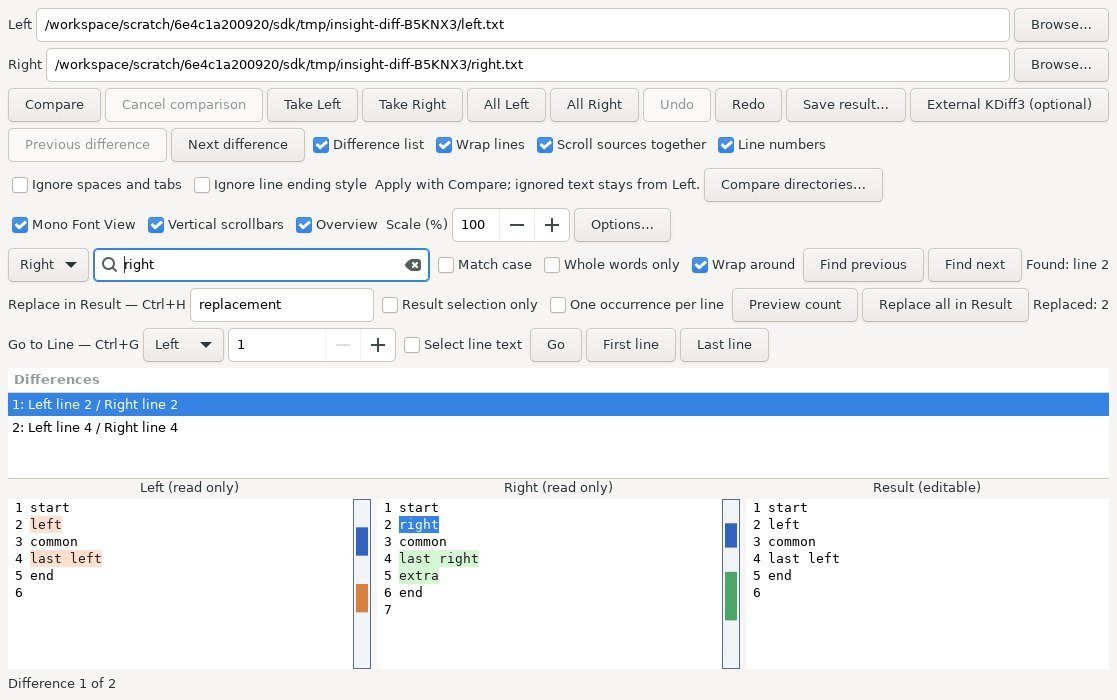
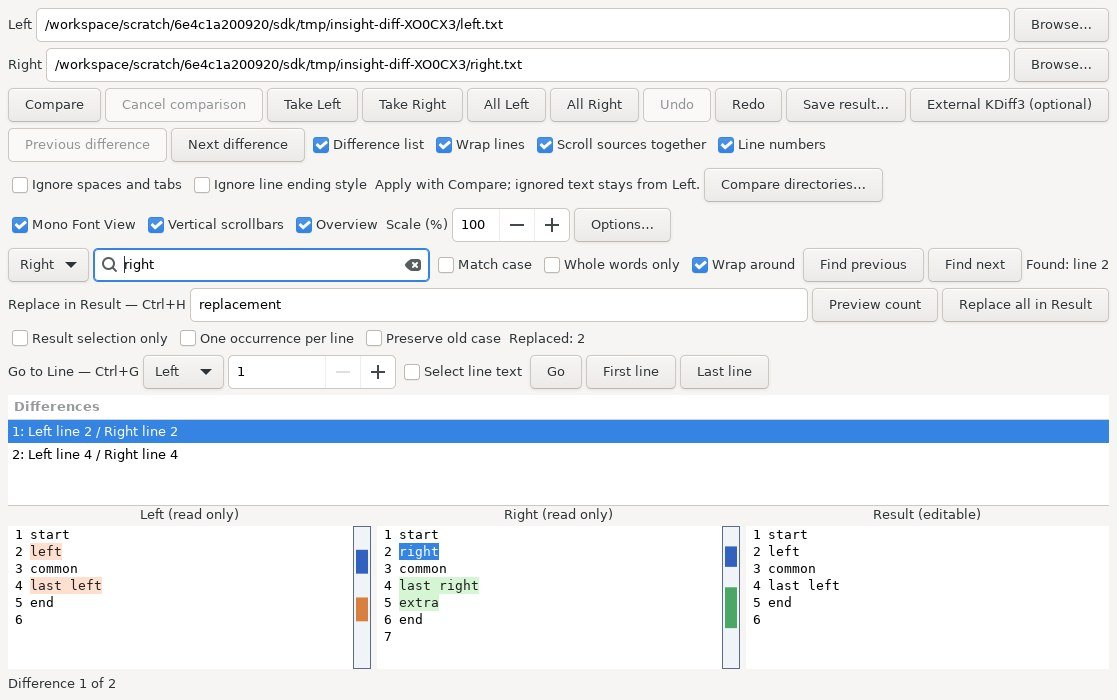
Preserve Unicode match case in replacement and add result selection case commands

diff --git a/src/insight-diff.c b/src/insight-diff.c
@@ -15,7 +15,7 @@ typedef struct { guint begin,end; } MapBlock;
 typedef struct {
  GtkWidget *window,*paths[2],*views[3],*status,*undo,*redo,*take[2],*take_all[2],*external;
  GtkWidget *find_entry,*find_side,*find_case,*find_word,*find_wrap,*find_previous,*find_next,*find_status,*numbers;
- GtkWidget *replace_entry,*replace_selection,*replace_once,*replace_status,*replace_apply;
+ GtkWidget *replace_entry,*replace_selection,*replace_once,*replace_case,*replace_status,*replace_apply;
  GtkWidget *line_side,*line_number,*line_select,*line_status;
  GArray *map_blocks[2];guint map_lines[2];
  GtkWidget *scrollers[3],*maps[2],*zoom,*mono,*vertical,*overview,*list_toggle,*wrap_toggle;GtkCssProvider *font_css;
@@ -217,7 +217,47 @@ static void find_text(Merge *m,gboolean backwards) {
 }
 static void find_clicked(GtkWidget *w,gpointer data) { Merge *m=data;find_text(m,w==m->find_previous); }
 static void find_activate(GtkEntry *entry,gpointer data) { (void)entry;find_text(data,FALSE); }
-typedef struct { gint begin,end; } ReplaceRange;
+/* Recognize uniform and initial-capital case; mixed identifiers stay literal. */
+static gchar *preserve_case(const gchar *old,const gchar *replacement) {
+ guint upper=0,lower=0,cased=0;gboolean initial=TRUE;
+ for(const gchar *p=old;*p;p=g_utf8_next_char(p)) {
+  gunichar c=g_utf8_get_char(p);gboolean up=g_unichar_isupper(c)||g_unichar_istitle(c),down=g_unichar_islower(c);
+  if(up || down) { if((cased==0 && !up) || (cased>0 && !down)) initial=FALSE;cased++;upper+=up;lower+=down; }
+ }
+ if(upper && !lower) return g_utf8_strup(replacement,-1);
+ if(lower && !upper) return g_utf8_strdown(replacement,-1);
+ if(initial && cased) {
+  gchar *low=g_utf8_strdown(replacement,-1);
+  for(gchar *p=low;*p;p=g_utf8_next_char(p)) if(g_unichar_islower(g_utf8_get_char(p)) || g_unichar_isupper(g_utf8_get_char(p))) {
+   gchar *next=g_utf8_next_char(p),*up=g_utf8_strup(p,next-p),*prefix=g_strndup(low,p-low),*text=g_strconcat(prefix,up,next,NULL);g_free(up);g_free(prefix);g_free(low);return text;
+  }
+  return low;
+ }
+ return g_strdup(replacement);
+}
+static gchar *toggle_case(const gchar *text) {
+ GString *out=g_string_new(NULL);
+ for(const gchar *p=text;*p;) { const gchar *next=g_utf8_next_char(p);gunichar c=g_utf8_get_char(p);
+  gchar *part=(g_unichar_isupper(c)||g_unichar_istitle(c)) ? g_utf8_strdown(p,next-p) : g_utf8_strup(p,next-p);g_string_append(out,part);g_free(part);p=next;
+ }
+ return g_string_free(out,FALSE);
+}
+static void selection_case(Merge *m,guint action) {
+ if(m->busy || m->changing) return;
+ GtkTextBuffer *buffer=result(m);GtkTextIter a,z;
+ if(!gtk_text_buffer_get_selection_bounds(buffer,&a,&z)) return;
+ gchar *old=gtk_text_buffer_get_text(buffer,&a,&z,TRUE);
+ gchar *text=action==0 ? g_utf8_strup(old,-1) : action==1 ? g_utf8_strdown(old,-1) : toggle_case(old);
+ gchar *all=contents(buffer);guint64 bytes=strlen(all)-strlen(old)+strlen(text);g_free(all);
+ if(bytes>1024*1024) gtk_label_set_text(GTK_LABEL(m->replace_status),"Case conversion limit: 1 MiB result. Nothing changed.");
+ else if(strcmp(old,text)) {
+  gint begin=gtk_text_iter_get_offset(&a);gtk_text_buffer_begin_user_action(buffer);gtk_text_buffer_delete(buffer,&a,&z);gtk_text_buffer_insert(buffer,&a,text,-1);gtk_text_buffer_get_iter_at_offset(buffer,&z,begin);gtk_text_buffer_select_range(buffer,&z,&a);gtk_text_buffer_end_user_action(buffer);
+  gtk_label_set_text(GTK_LABEL(m->replace_status),"Selection case changed.");
+ }
+ g_free(text);g_free(old);
+}
+typedef struct { gint begin,end;gchar *text; } ReplaceRange;
+
 static void replace_result(GtkWidget *widget,gpointer data) {
  Merge *m=data;if(m->busy || m->changing) return;
  const gchar *query=gtk_entry_get_text(GTK_ENTRY(m->find_entry));
@@ -230,18 +270,20 @@ static void replace_result(GtkWidget *widget,gpointer data) {
  if(!gtk_toggle_button_get_active(GTK_TOGGLE_BUTTON(m->find_case))) flags|=GTK_TEXT_SEARCH_CASE_INSENSITIVE;
  gboolean whole=gtk_toggle_button_get_active(GTK_TOGGLE_BUTTON(m->find_word));
  gboolean once=gtk_toggle_button_get_active(GTK_TOGGLE_BUTTON(m->replace_once));
- const gchar *replacement=gtk_entry_get_text(GTK_ENTRY(m->replace_entry));gsize replacement_bytes=strlen(replacement);
+ const gchar *replacement=gtk_entry_get_text(GTK_ENTRY(m->replace_entry));
+ gboolean keep_case=gtk_toggle_button_get_active(GTK_TOGGLE_BUTTON(m->replace_case));
  gchar *original=contents(buffer);guint64 bytes=strlen(original);g_free(original);
  GArray *ranges=g_array_new(FALSE,FALSE,sizeof(ReplaceRange));gint last_line=-1;gboolean exceeded=FALSE;
  while(search_match(start,query,flags,FALSE,whole,&a,&z) && gtk_text_iter_compare(&z,&limit)<=0) {
   if(!once || gtk_text_iter_get_line(&a)!=last_line) {
    gchar *old=gtk_text_buffer_get_text(buffer,&a,&z,TRUE);gsize old_bytes=strlen(old);
    /* A no-op must not create history or consume the bounded match budget. */
-   gboolean same=!strcmp(old,replacement);g_free(old);
+   gchar *text=keep_case ? preserve_case(old,replacement) : g_strdup(replacement);gsize replacement_bytes=strlen(text);
+   gboolean same=!strcmp(old,text);g_free(old);
    last_line=gtk_text_iter_get_line(&a);
-   if(!same) { ReplaceRange range={gtk_text_iter_get_offset(&a),gtk_text_iter_get_offset(&z)};g_array_append_val(ranges,range);bytes=bytes-old_bytes+replacement_bytes;
+   if(!same) { ReplaceRange range={gtk_text_iter_get_offset(&a),gtk_text_iter_get_offset(&z),text};g_array_append_val(ranges,range);bytes=bytes-old_bytes+replacement_bytes;
     if(ranges->len>100000 || bytes>1024*1024) { exceeded=TRUE;break; }
-   }
+   } else g_free(text);
   }
   start=z;
  }
@@ -250,10 +292,11 @@ static void replace_result(GtkWidget *widget,gpointer data) {
  else if(ranges->len) {
   gtk_text_buffer_begin_user_action(buffer);
   /* Reverse edits preserve offsets and tracked merge marks. */
-  for(guint i=ranges->len;i>0;i--) { ReplaceRange range=g_array_index(ranges,ReplaceRange,i-1);gtk_text_buffer_get_iter_at_offset(buffer,&a,range.begin);gtk_text_buffer_get_iter_at_offset(buffer,&z,range.end);gtk_text_buffer_delete(buffer,&a,&z);gtk_text_buffer_insert(buffer,&a,replacement,(gint)replacement_bytes); }
+  for(guint i=ranges->len;i>0;i--) { ReplaceRange range=g_array_index(ranges,ReplaceRange,i-1);gtk_text_buffer_get_iter_at_offset(buffer,&a,range.begin);gtk_text_buffer_get_iter_at_offset(buffer,&z,range.end);gtk_text_buffer_delete(buffer,&a,&z);gtk_text_buffer_insert(buffer,&a,range.text,-1); }
   gtk_text_buffer_end_user_action(buffer);
   gchar *label=g_strdup_printf("Replaced: %u",ranges->len);gtk_label_set_text(GTK_LABEL(m->replace_status),label);g_free(label);
  } else gtk_label_set_text(GTK_LABEL(m->replace_status),"No changes.");
+ for(guint i=0;i<ranges->len;i++) g_free(g_array_index(ranges,ReplaceRange,i).text);
  g_array_unref(ranges);
 }
 static void gutter_size(GtkTextBuffer *buffer,gpointer data) {
@@ -478,16 +521,17 @@ static void copy_difference(Merge *m,guint side) {
 static void source_menu_action(GtkMenuItem *item,gpointer window) {
  Merge *m=g_object_get_data(G_OBJECT(window),"insight-diff-state");if(!m) return;
  gint side=GPOINTER_TO_INT(g_object_get_data(G_OBJECT(item),"side"));gint action=GPOINTER_TO_INT(g_object_get_data(G_OBJECT(item),"action"));
- if(action==0) edit_source(m,side);else if(action==1) copy_difference(m,side);else if(action==2) view_options(GTK_WIDGET(item),m);else focus_line(m,side);
+ if(action==0) edit_source(m,side);else if(action==1) copy_difference(m,side);else if(action==2) view_options(GTK_WIDGET(item),m);else if(action==3) focus_line(m,side);else if(side==2) selection_case(m,action-4);
 }
 static void view_menu_toggle(GtkCheckMenuItem *item,gpointer toggle) { gtk_toggle_button_set_active(GTK_TOGGLE_BUTTON(toggle),gtk_check_menu_item_get_active(item)); }
 static void source_menu(GtkTextView *view,GtkWidget *menu,gpointer data) {
  Merge *m=data;guint side=GTK_WIDGET(view)==m->views[1] ? 1 : GTK_WIDGET(view)==m->views[0] ? 0 : 2;
  gtk_menu_shell_append(GTK_MENU_SHELL(menu),gtk_separator_menu_item_new());
- const gchar *labels[]={"Edit File — Ctrl+E","Copy selected difference","File Compare Options…","Go to Line — Ctrl+G"};
- for(guint action=0;action<4;action++) {
-  if(side==2 && action<2) continue;
+ const gchar *labels[]={"Edit File — Ctrl+E","Copy selected difference","File Compare Options…","Go to Line — Ctrl+G","Uppercase selection","Lowercase selection","Toggle selection case"};
+ for(guint action=0;action<G_N_ELEMENTS(labels);action++) {
+  if((side==2 && action<2) || (side!=2 && action>=4)) continue;
   GtkWidget *item=gtk_menu_item_new_with_label(labels[action]);g_object_set_data(G_OBJECT(item),"side",GUINT_TO_POINTER(side));g_object_set_data(G_OBJECT(item),"action",GUINT_TO_POINTER(action));gtk_menu_shell_append(GTK_MENU_SHELL(menu),item);g_signal_connect_object(item,"activate",G_CALLBACK(source_menu_action),m->window,0);
+  if(action>=4) gtk_widget_set_sensitive(item,!m->busy && gtk_text_buffer_get_has_selection(result(m)));
   if(action<2) gtk_widget_set_sensitive(item,!m->busy && m->loaded_paths[side] && (action==0 ? source_opener!=NULL : selected(m)>=0));
  }
  GtkWidget *toggles[]={m->mono,m->numbers,m->list_toggle,m->wrap_toggle,m->vertical,m->overview};
@@ -698,10 +742,12 @@ static Merge *merge_new(GtkWidget *parent) {
  g_signal_connect(m->find_entry,"activate",G_CALLBACK(find_activate),m);g_signal_connect(m->find_entry,"key-press-event",G_CALLBACK(key),m);
  GtkWidget *replace=gtk_box_new(GTK_ORIENTATION_HORIZONTAL,4);gtk_box_pack_start(GTK_BOX(box),replace,FALSE,FALSE,0);
  gtk_box_pack_start(GTK_BOX(replace),gtk_label_new("Replace in Result — Ctrl+H"),FALSE,FALSE,0);m->replace_entry=gtk_entry_new();gtk_widget_set_name(m->replace_entry,"insight-diff-replacement");gtk_entry_set_placeholder_text(GTK_ENTRY(m->replace_entry),"Replacement text (empty deletes matches)");gtk_box_pack_start(GTK_BOX(replace),m->replace_entry,TRUE,TRUE,0);
- m->replace_selection=gtk_check_button_new_with_label("Result selection only");gtk_box_pack_start(GTK_BOX(replace),m->replace_selection,FALSE,FALSE,0);
- m->replace_once=gtk_check_button_new_with_label("One occurrence per line");gtk_box_pack_start(GTK_BOX(replace),m->replace_once,FALSE,FALSE,0);
+ GtkWidget *replace_options=gtk_box_new(GTK_ORIENTATION_HORIZONTAL,4);gtk_box_pack_start(GTK_BOX(box),replace_options,FALSE,FALSE,0);
+ m->replace_selection=gtk_check_button_new_with_label("Result selection only");gtk_box_pack_start(GTK_BOX(replace_options),m->replace_selection,FALSE,FALSE,0);
+ m->replace_once=gtk_check_button_new_with_label("One occurrence per line");gtk_box_pack_start(GTK_BOX(replace_options),m->replace_once,FALSE,FALSE,0);
  button(replace,"Preview count",G_CALLBACK(replace_result),m);m->replace_apply=button(replace,"Replace all in Result",G_CALLBACK(replace_result),m);gtk_widget_set_name(m->replace_apply,"insight-diff-replace-all");
- m->replace_status=gtk_label_new("");gtk_box_pack_start(GTK_BOX(replace),m->replace_status,FALSE,FALSE,0);
+ m->replace_case=gtk_check_button_new_with_label("Preserve old case");gtk_box_pack_start(GTK_BOX(replace_options),m->replace_case,FALSE,FALSE,0);gtk_widget_set_name(m->replace_case,"insight-diff-preserve-case");
+ m->replace_status=gtk_label_new("");gtk_box_pack_start(GTK_BOX(replace_options),m->replace_status,FALSE,FALSE,0);
  gtk_widget_set_tooltip_text(replace,"Uses search text, case and whole-word options above; searches the entire result or its selection without wrapping.");
  GtkWidget *line=gtk_box_new(GTK_ORIENTATION_HORIZONTAL,4);gtk_box_pack_start(GTK_BOX(box),line,FALSE,FALSE,0);
  gtk_box_pack_start(GTK_BOX(line),gtk_label_new("Go to Line — Ctrl+G"),FALSE,FALSE,0);

diff --git a/insight/tests/diff_gui_test.c b/insight/tests/diff_gui_test.c
@@ -99,8 +99,26 @@ static void replace_test(void) {
  m->busy=TRUE;gtk_entry_set_text(GTK_ENTRY(m->replace_entry),"blocked");replace_result(m->replace_apply,m);assert_text(m,initial);m->busy=FALSE;
  gtk_widget_destroy(m->window);flush();
 }
+static void case_test(void) {
+ const gchar *old[]={"foo","FOO","Foo","fooBar","123","_ЁЖ","Ёж","ß"};
+ const gchar *expected[]={"ёж","ЁЖ","Ёж","ёЖ","ёЖ","ЁЖ","Ёж","ёж"};
+ for(guint i=0;i<G_N_ELEMENTS(old);i++) { gchar *text=preserve_case(old[i],"ёЖ");g_assert_cmpstr(text,==,expected[i]);g_free(text); }
+ gchar *text=preserve_case("FOO","straße");g_assert_cmpstr(text,==,"STRASSE");g_free(text);
+ Merge *m=merge_new(NULL);GtkTextBuffer *b=result(m);GtkTextIter a,z;
+ const gchar *initial="foo FOO Foo fooBar\r\nёж ЁЖ Ёж";gtk_text_buffer_set_text(b,initial,-1);
+ gtk_entry_set_text(GTK_ENTRY(m->find_entry),"foo");gtk_entry_set_text(GTK_ENTRY(m->replace_entry),"straße");gtk_toggle_button_set_active(GTK_TOGGLE_BUTTON(m->find_word),TRUE);gtk_toggle_button_set_active(GTK_TOGGLE_BUTTON(m->replace_case),TRUE);
+ guint history=m->history->len;replace_result(NULL,m);g_assert_cmpstr(gtk_label_get_text(GTK_LABEL(m->replace_status)),==,"Preview: 3 replacements");g_assert_cmpuint(m->history->len,==,history);
+ replace_result(m->replace_apply,m);assert_text(m,"straße STRASSE Straße fooBar\r\nёж ЁЖ Ёж");g_assert_cmpuint(m->history->len,==,history+1);undo(NULL,m);assert_text(m,initial);redo(NULL,m);undo(NULL,m);
+ gtk_text_buffer_set_text(b,"Straße ёЖ 42\r\n",-1);gtk_text_buffer_get_bounds(b,&a,&z);gtk_text_buffer_select_range(b,&a,&z);history=m->history->len;GtkWidget *menu=gtk_menu_new();g_object_ref_sink(menu);source_menu(GTK_TEXT_VIEW(m->views[2]),menu,m);GList *items=gtk_container_get_children(GTK_CONTAINER(menu));gboolean activated=FALSE;for(GList *p=items;p;p=p->next) if(GTK_IS_MENU_ITEM(p->data) && !g_strcmp0(gtk_menu_item_get_label(p->data),"Uppercase selection")) { gtk_menu_item_activate(p->data);activated=TRUE;break; }g_list_free(items);g_assert_true(activated);gtk_widget_destroy(menu);g_object_unref(menu);assert_text(m,"STRASSE ЁЖ 42\r\n");g_assert_true(gtk_text_buffer_get_has_selection(b));g_assert_cmpuint(m->history->len,==,history+1);undo(NULL,m);assert_text(m,"Straße ёЖ 42\r\n");
+ gtk_text_buffer_get_bounds(b,&a,&z);gtk_text_buffer_select_range(b,&a,&z);selection_case(m,1);assert_text(m,"straße ёж 42\r\n");undo(NULL,m);
+ gtk_text_buffer_get_bounds(b,&a,&z);gtk_text_buffer_select_range(b,&a,&z);selection_case(m,2);assert_text(m,"sTRASSE Ёж 42\r\n");undo(NULL,m);
+ gtk_text_buffer_get_start_iter(b,&a);gtk_text_buffer_place_cursor(b,&a);history=m->history->len;selection_case(m,0);g_assert_cmpuint(m->history->len,==,history);
+ gtk_text_buffer_get_bounds(b,&a,&z);gtk_text_buffer_select_range(b,&a,&z);m->busy=TRUE;selection_case(m,0);assert_text(m,"Straße ёЖ 42\r\n");m->busy=FALSE;
+ GString *large=g_string_new(NULL);for(guint i=0;i<180000;i++) { g_string_append(large,"ΐ");if(i%50==49) g_string_append_c(large,'\n'); }gtk_text_buffer_set_text(b,large->str,-1);gtk_text_buffer_get_bounds(b,&a,&z);gtk_text_buffer_select_range(b,&a,&z);history=m->history->len;selection_case(m,0);g_assert_cmpuint(m->history->len,==,history);g_assert_nonnull(strstr(gtk_label_get_text(GTK_LABEL(m->replace_status)),"Nothing changed"));g_assert_cmpint(gtk_text_buffer_get_char_count(b),==,183600);g_string_free(large,TRUE);
+ gtk_widget_destroy(m->window);flush();
+}
 int main(int argc,char **argv) {
- gtk_init(&argc,&argv);line_navigation_test();search_options_test();replace_test();insight_diff_set_source_opener(source_opened);
+ gtk_init(&argc,&argv);line_navigation_test();search_options_test();replace_test();case_test();insight_diff_set_source_opener(source_opened);
  GError *error=NULL;gchar *dir=g_dir_make_tmp("insight-diff-XXXXXX",&error);g_assert_no_error(error);
  gchar *left=g_build_filename(dir,"left.txt",NULL),*right=g_build_filename(dir,"right.txt",NULL);
  const char *a="start\nleft\ncommon\nlast left\nend\n",*b="start\nright\ncommon\nlast right\nextra\nend\n";

diff --git a/insight/tests/directory_compare_native_gui_test.c b/insight/tests/directory_compare_native_gui_test.c
@@ -48,7 +48,7 @@ static gboolean step(gpointer data) {
   if(!gtk_widget_get_sensitive(named(merge,"insight-diff-compare"))) return G_SOURCE_CONTINUE;
   GtkTextBuffer *buffer=gtk_text_view_get_buffer(GTK_TEXT_VIEW(named(merge,"insight-diff-result")));GtkTextIter a,z;gtk_text_buffer_get_bounds(buffer,&a,&z);gchar *text=gtk_text_buffer_get_text(buffer,&a,&z,TRUE);g_assert_cmpstr(text,==,"port = 3000\n");g_free(text);
   GdkEventKey shortcut={0};shortcut.type=GDK_KEY_PRESS;shortcut.state=GDK_CONTROL_MASK;shortcut.keyval=GDK_KEY_q;gboolean handled=FALSE;g_idle_add(apply_compare_options,NULL);g_signal_emit_by_name(merge,"key-press-event",&shortcut,&handled);g_assert_true(handled);g_assert_cmpint(gtk_spin_button_get_value_as_int(GTK_SPIN_BUTTON(named(merge,"insight-diff-zoom"))),==,130);g_assert_true(gtk_toggle_button_get_active(GTK_TOGGLE_BUTTON(named(merge,"insight-diff-overview"))));
-  gtk_entry_set_text(GTK_ENTRY(named(merge,"insight-diff-search")),"3000");gtk_entry_set_text(GTK_ENTRY(named(merge,"insight-diff-replacement")),"3333");gtk_button_clicked(GTK_BUTTON(named(merge,"insight-diff-replace-all")));gtk_text_buffer_get_bounds(buffer,&a,&z);text=gtk_text_buffer_get_text(buffer,&a,&z,TRUE);g_assert_cmpstr(text,==,"port = 3333\n");g_free(text);shortcut.keyval=GDK_KEY_z;handled=FALSE;g_signal_emit_by_name(merge,"key-press-event",&shortcut,&handled);g_assert_true(handled);gtk_text_buffer_get_bounds(buffer,&a,&z);text=gtk_text_buffer_get_text(buffer,&a,&z,TRUE);g_assert_cmpstr(text,==,"port = 3000\n");g_free(text);
+  gtk_entry_set_text(GTK_ENTRY(named(merge,"insight-diff-search")),"port");gtk_entry_set_text(GTK_ENTRY(named(merge,"insight-diff-replacement")),"SERVER");gtk_toggle_button_set_active(GTK_TOGGLE_BUTTON(named(merge,"insight-diff-preserve-case")),TRUE);gtk_button_clicked(GTK_BUTTON(named(merge,"insight-diff-replace-all")));gtk_text_buffer_get_bounds(buffer,&a,&z);text=gtk_text_buffer_get_text(buffer,&a,&z,TRUE);g_assert_cmpstr(text,==,"server = 3000\n");g_free(text);shortcut.keyval=GDK_KEY_z;handled=FALSE;g_signal_emit_by_name(merge,"key-press-event",&shortcut,&handled);g_assert_true(handled);gtk_text_buffer_get_bounds(buffer,&a,&z);text=gtk_text_buffer_get_text(buffer,&a,&z,TRUE);g_assert_cmpstr(text,==,"port = 3000\n");g_free(text);
   GtkWidget *right_view=named(merge,"insight-diff-right");GtkTextBuffer *right_buffer=gtk_text_view_get_buffer(GTK_TEXT_VIEW(right_view));GtkTextIter line;gtk_widget_grab_focus(right_view);shortcut.keyval=GDK_KEY_g;handled=FALSE;g_signal_emit_by_name(right_view,"key-press-event",&shortcut,&handled);g_assert_true(handled);GtkWidget *line_number=named(merge,"insight-diff-line");g_assert_nonnull(line_number);gtk_spin_button_set_value(GTK_SPIN_BUTTON(line_number),2);g_signal_emit_by_name(line_number,"activate");gtk_text_buffer_get_iter_at_mark(right_buffer,&line,gtk_text_buffer_get_insert(right_buffer));g_assert_cmpint(gtk_text_iter_get_line(&line),==,1);shortcut.keyval=GDK_KEY_e;handled=FALSE;g_signal_emit_by_name(right_view,"key-press-event",&shortcut,&handled);g_assert_true(handled);GeanyDocument *opened=document_get_current();g_assert_nonnull(opened);gchar *expected=g_build_filename(right,"config.ini",NULL);g_assert_cmpstr(opened->real_path,==,expected);g_free(expected);g_assert_cmpint(sci_get_current_line(opened->editor->sci),==,1);g_assert_false(opened->changed);gtk_widget_destroy(merge);
   gchar *copy=g_build_filename(left,"transfer.c",NULL);g_assert_true(g_file_set_contents(copy,"int transfer;\n",-1,NULL));g_free(copy);gtk_button_clicked(GTK_BUTTON(named(directory,"insight-directory-scan")));phase=3;return G_SOURCE_CONTINUE;
  }

diff --git a/insight/docs/ru/internal-diff.md b/insight/docs/ru/internal-diff.md
@@ -153,4 +153,18 @@ F6 переключает Left → Right → Result, Shift+F6 — обратно
 
 Ctrl+H переводит поиск на Result и фокусирует поле замены. Введите искомый текст в строке поиска выше и новый текст в «Replace in Result»; пустое значение удаляет совпадения. Учитываются регистр и целые слова. «Result selection only» ограничивает работу текущим выделением результата, «One occurrence per line» — первым совпадением на каждой логической строке. Без ограничения выделением обрабатывается весь результат, независимо от позиции курсора и режима поиска по кругу.
 
-«Preview count» заново подсчитывает фактические изменения, не меняя текст. «Replace all in Result» заново проверяет текущие параметры и применяет пакет одним действием Undo/Redo. Одинаковый текст пропускается. Предел — 100000 изменений и 1 МиБ результата: превышение при предварительном расчёте отменяет весь пакет до правок. Во время сравнения замена заблокирована. Замены буквальные; регулярные выражения, сохранение регистра и замена в исходных файлах здесь не реализованы. Поля запроса и замены не сохраняются в настройках. Снимок выше показывает строку замены рабочего GTK-виджета.
+«Preview count» заново подсчитывает фактические изменения, не меняя текст. «Replace all in Result» заново проверяет текущие параметры и применяет пакет одним действием Undo/Redo. Одинаковый текст пропускается. Предел — 100000 изменений и 1 МиБ результата: превышение при предварительном расчёте отменяет весь пакет до правок. Во время сравнения замена заблокирована. Замены буквальные; регулярные выражения и замена в исходных файлах здесь не реализованы. Поля запроса и замены не сохраняются в настройках. Снимок выше показывает строку замены рабочего GTK-виджета.
+
+### Сохранение и преобразование регистра
+
+«Preserve old case» вычисляет новый текст отдельно для каждого совпадения. Буквы Unicode учитываются, цифры, знаки и подчёркивания не задают регистр. Для смешанного регистра букв используется буквальное значение поля замены. Режим начальной заглавной буквы меняет первую букву замены после приведения остальных к нижнему регистру. Предпросмотр и проверка лимита учитывают фактические строки, включая расширения вроде `ß → SS`. Параметр действует в текущем окне и не сохраняется.
+
+| Старое совпадение | Введённая замена | Результат |
+|---|---|---|
+| `foo` | `bAr` | `bar` |
+| `FOO` | `bAr` | `BAR` |
+| `Foo` | `bAr` | `Bar` |
+| `fooBar` | `bAr` | `bAr` |
+| `ЁЖ` | `straße` | `STRASSE` |
+
+В контекстном меню Result доступны «Uppercase selection», «Lowercase selection» и «Toggle selection case». Команды работают с выделением, сохраняют переводы строк и выделяют полученный текст. Преобразование Unicode может менять число символов. Каждая команда отменяется одним Undo; пустое выделение, неизменившийся текст и работающий процесс сравнения не создают правок. Если итог превысит 1 МиБ, преобразование полностью отклоняется. В меню исходных панелей эти команды отсутствуют.

diff --git a/insight/docs/en/internal-diff.md b/insight/docs/en/internal-diff.md
@@ -196,4 +196,18 @@ F6 cycles Left → Right → Result; Shift+F6 reverses the order. Search keeps i
 
 Ctrl+H targets search at Result and focuses the replacement field. Enter the old literal text in the search bar above and the new text in **Replace in Result**; an empty replacement deletes matches. Match case and whole-word options apply. **Result selection only** restricts edits to the current result selection; **One occurrence per line** uses the first match on each logical line. Otherwise the entire result is processed, independent of caret position or search wrap.
 
-**Preview count** recomputes actual changes without editing. **Replace all in Result** recomputes against current text and settings, then applies the batch as one Undo/Redo action. Identical text is skipped. A preflight limit of 100000 changes and 1 MiB result rejects the whole batch before edits if exceeded during calculation. Replacement is blocked during comparison. This is literal replacement; regex, preserve-case and source-file replacement are not implemented here. Search and replacement strings are not saved in preferences. The production GTK-widget capture above shows the replacement bar.
+**Preview count** recomputes actual changes without editing. **Replace all in Result** recomputes against current text and settings, then applies the batch as one Undo/Redo action. Identical text is skipped. A preflight limit of 100000 changes and 1 MiB result rejects the whole batch before edits if exceeded during calculation. Replacement is blocked during comparison. This is literal replacement; regex and source-file replacement are not implemented here. Search and replacement strings are not saved in preferences. The production GTK-widget capture above shows the replacement bar.
+
+### Preserving and converting case
+
+**Preserve old case** computes replacement text separately for every match. Unicode cased letters determine the style; digits, punctuation and underscores do not. Mixed-case matches use the literal replacement. Initial-capital style lowercases the replacement and uppercases its first cased letter. Preview and size checks use actual converted strings, including expansions such as `ß → SS`. This option belongs to the current window and is not persisted.
+
+| Old match | Typed replacement | Result |
+|---|---|---|
+| `foo` | `bAr` | `bar` |
+| `FOO` | `bAr` | `BAR` |
+| `Foo` | `bAr` | `Bar` |
+| `fooBar` | `bAr` | `bAr` |
+| `ЁЖ` | `straße` | `STRASSE` |
+
+The Result context menu provides **Uppercase selection**, **Lowercase selection** and **Toggle selection case**. They preserve line endings and select the converted text. Unicode conversion can change character count. Each operation is one Undo action; empty selections, unchanged text and comparison work produce no edits. Conversion is rejected in full if the result would exceed 1 MiB. Source-pane menus omit these editing commands.

diff --git a/insight/docs/internal-diff.md b/insight/docs/internal-diff.md
@@ -196,4 +196,18 @@ F6 cycles Left → Right → Result; Shift+F6 reverses the order. Search keeps i
 
 Ctrl+H targets search at Result and focuses the replacement field. Enter the old literal text in the search bar above and the new text in **Replace in Result**; an empty replacement deletes matches. Match case and whole-word options apply. **Result selection only** restricts edits to the current result selection; **One occurrence per line** uses the first match on each logical line. Otherwise the entire result is processed, independent of caret position or search wrap.
 
-**Preview count** recomputes actual changes without editing. **Replace all in Result** recomputes against current text and settings, then applies the batch as one Undo/Redo action. Identical text is skipped. A preflight limit of 100000 changes and 1 MiB result rejects the whole batch before edits if exceeded during calculation. Replacement is blocked during comparison. This is literal replacement; regex, preserve-case and source-file replacement are not implemented here. Search and replacement strings are not saved in preferences. The production GTK-widget capture above shows the replacement bar.
+**Preview count** recomputes actual changes without editing. **Replace all in Result** recomputes against current text and settings, then applies the batch as one Undo/Redo action. Identical text is skipped. A preflight limit of 100000 changes and 1 MiB result rejects the whole batch before edits if exceeded during calculation. Replacement is blocked during comparison. This is literal replacement; regex and source-file replacement are not implemented here. Search and replacement strings are not saved in preferences. The production GTK-widget capture above shows the replacement bar.
+
+### Preserving and converting case
+
+**Preserve old case** computes replacement text separately for every match. Unicode cased letters determine the style; digits, punctuation and underscores do not. Mixed-case matches use the literal replacement. Initial-capital style lowercases the replacement and uppercases its first cased letter. Preview and size checks use actual converted strings, including expansions such as `ß → SS`. This option belongs to the current window and is not persisted.
+
+| Old match | Typed replacement | Result |
+|---|---|---|
+| `foo` | `bAr` | `bar` |
+| `FOO` | `bAr` | `BAR` |
+| `Foo` | `bAr` | `Bar` |
+| `fooBar` | `bAr` | `bAr` |
+| `ЁЖ` | `straße` | `STRASSE` |
+
+The Result context menu provides **Uppercase selection**, **Lowercase selection** and **Toggle selection case**. They preserve line endings and select the converted text. Unicode conversion can change character count. Each operation is one Undo action; empty selections, unchanged text and comparison work produce no edits. Conversion is rejected in full if the result would exceed 1 MiB. Source-pane menus omit these editing commands.

diff --git a/insight/docs/source-insight-parity.md b/insight/docs/source-insight-parity.md
@@ -436,3 +436,7 @@ Added Ctrl+G logical-line navigation in all three panes, EOF clamping, optional 
 ### 2026-10-16 — merge-result replacement
 
 Added literal replace-all with preview count, result selection scope, one occurrence per logical line, shared case/identifier options, Ctrl+H focus, deletion, bounded preflight and a single undoable batch preserving merge marks. Original sources stay read-only. No-op replacements do not create history. GTK/UBSan fixture covers Unicode, CRLF, selection, deletion, no-op, busy and size rejection; native Linux fixture replaces a port and restores it with Ctrl+Z. [Source Insight Replace](https://www.sourceinsight.com/doc/v4/userguide/Manual/Command_Reference/Replace.htm).
+
+### 2026-10-16 — preserve case and selection case commands
+
+Added per-match Unicode preserve-case replacement for uniform upper/lower and initial-capital forms, documented literal fallback for mixed case, and Result-only Uppercase/Lowercase/Toggle Case context commands. Preview, no-op detection and size preflight use converted strings; owned replacement ranges retain their individual values through reverse application and are freed on every path. GTK/UBSan verifies Unicode expansions, Cyrillic, mixed case, menu dispatch, selection retention, history, busy state and 1 MiB rejection. Native editor fixture exercises Preserve old case and Ctrl+Z. Reorganized replacement controls into two rows to keep the editor width usable. References: [Replace](https://www.sourceinsight.com/doc/v4/userguide/Manual/Command_Reference/Replace.htm), [case commands](https://www.sourceinsight.com/doc/v3/ac924207.htm).
